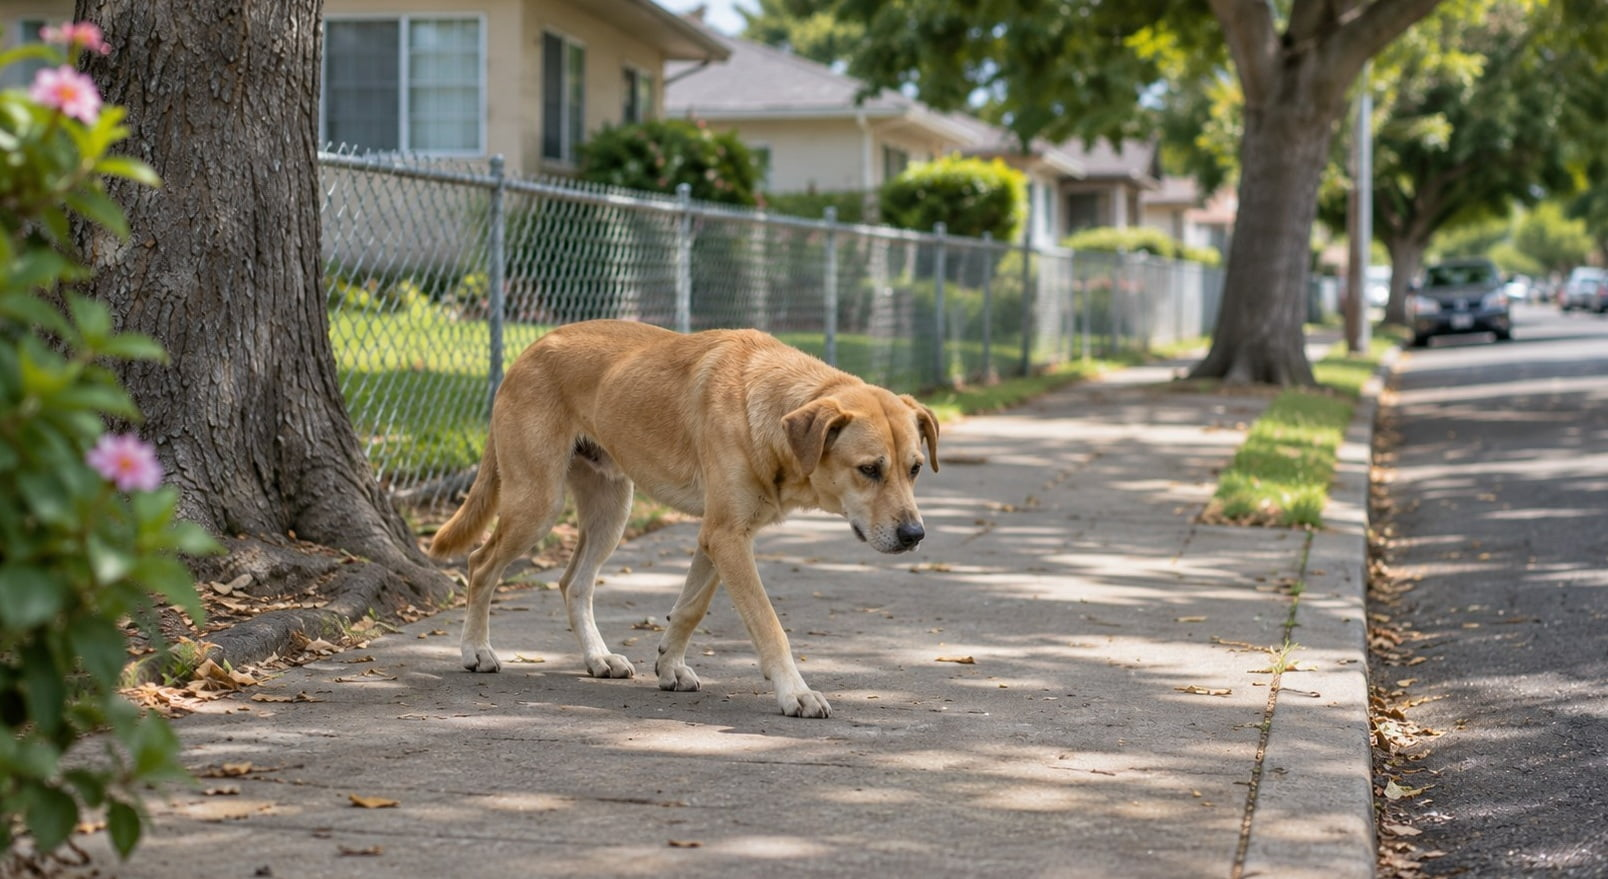
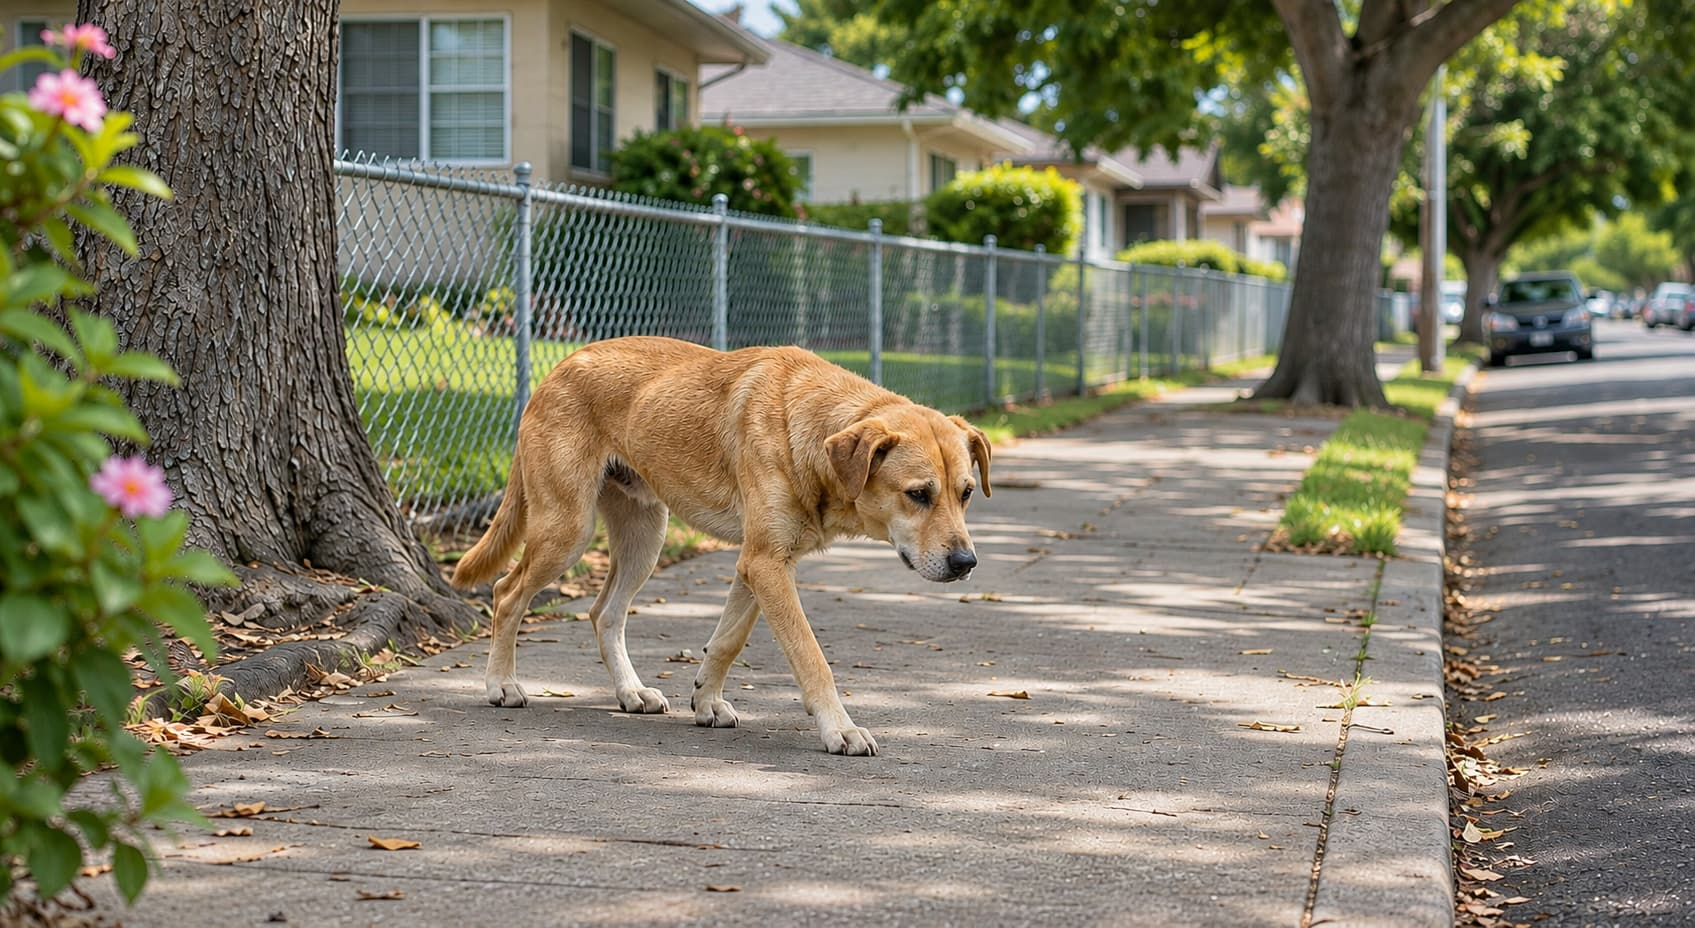
Improve saturation of images

diff --git a/public/preview/care-site/site.js b/public/preview/care-site/site.js
@@ -377,7 +377,8 @@ function render({reuseExisting=false}={}){
   const grouped=mainNavigation+aboutNavigation;
   const mobileNavigation=grouped+`<div class="care-nav-group"><div class="care-group-label">More work</div><nav class="care-rail-nav" aria-label="More work">${[['improvements','Improvements','improvements'],['events','Events','events']].map(navLink).join('')}</nav></div>`;
   const identity=`<span class="gap-identity-mark" style="background:${esc(gap?.fields?.identity_color||'#0789e8')}"></span><span>${esc(current==='/about'?'ABOUT CROSSOVER':gap?.title||'Crossover Stockton')}</span>`;
-  const shell=`<div class="care-shell"><aside class="care-rail"><a class="care-brand" href="${href('overview')}"><img src="/images/logo_light.webp" alt=""><span>CROSSOVER<br>STOCKTON</span></a><div class="care-rail-groups">${grouped}</div></aside><div class="care-site"><header class="care-top"><a class="care-mobile-brand" href="${href('overview')}"><img src="/images/logo_dark.webp" alt=""><span>CROSSOVER<br>STOCKTON</span></a><a class="gap-identity desktop-identity" href="${href('overview')}">${identity}</a><div class="care-top-actions"><div class="home-search"><button class="home-search-toggle" type="button" aria-label="Search the site" aria-expanded="false" aria-controls="home-search-panel"><svg viewBox="0 0 24 24" aria-hidden="true"><circle cx="10.8" cy="10.8" r="6.8"/><path d="m16 16 5 5"/></svg></button><div class="home-search-panel" id="home-search-panel" hidden><label for="home-search-input">Search Crossover Stockton</label><input id="home-search-input" type="search" placeholder="Search sections and records"><div class="home-search-results"></div></div></div><a class="desktop-about" href="${href('about')}" ${activeState('about')}>${icon('about')}<span>About</span></a><button class="menu-toggle" type="button" aria-label="Open menu" aria-expanded="false" aria-controls="mobile-menu">${icon('menu')}</button></div></header><div class="mobile-menu" id="mobile-menu">${mobileNavigation}</div><main class="main" id="content" tabindex="-1"><div class="content"><div class="gap-identity mobile-identity">${identity}</div>${inner}</div></main><footer class="footer"><div class="footer-inner"><div class="footer-copy"><span>&copy; ${new Date().getFullYear()} Crossover Stockton</span><span>See clearly. Act locally.</span></div><nav class="footer-links" aria-label="Footer"><a href="${href('about')}">About</a><a href="${href('sources')}">Sources</a></nav></div></footer></div></div>`;
+  const identityHref=current==='/about'?href('about'):href('overview');
+  const shell=`<div class="care-shell"><aside class="care-rail"><a class="care-brand" href="${href('overview')}"><img src="/images/logo_light.webp" alt=""><span>CROSSOVER<br>STOCKTON</span></a><div class="care-rail-groups">${grouped}</div></aside><div class="care-site"><header class="care-top"><a class="care-mobile-brand" href="${href('overview')}"><img src="/images/logo_dark.webp" alt=""><span>CROSSOVER<br>STOCKTON</span></a><a class="gap-identity desktop-identity" href="${identityHref}">${identity}</a><div class="care-top-actions"><div class="home-search"><button class="home-search-toggle" type="button" aria-label="Search the site" aria-expanded="false" aria-controls="home-search-panel"><svg viewBox="0 0 24 24" aria-hidden="true"><circle cx="10.8" cy="10.8" r="6.8"/><path d="m16 16 5 5"/></svg></button><div class="home-search-panel" id="home-search-panel" hidden><label for="home-search-input">Search Crossover Stockton</label><input id="home-search-input" type="search" placeholder="Search sections and records"><div class="home-search-results"></div></div></div><a class="desktop-about" href="${href('about')}" ${activeState('about')}>${icon('about')}<span>About</span></a><button class="menu-toggle" type="button" aria-label="Open menu" aria-expanded="false" aria-controls="mobile-menu">${icon('menu')}</button></div></header><div class="mobile-menu" id="mobile-menu">${mobileNavigation}</div><main class="main" id="content" tabindex="-1"><div class="content"><div class="gap-identity mobile-identity">${identity}</div>${inner}</div></main><footer class="footer"><div class="footer-inner"><div class="footer-copy"><span>&copy; ${new Date().getFullYear()} Crossover Stockton</span><span>See clearly. Act locally.</span></div><nav class="footer-links" aria-label="Footer"><a href="${href('about')}">About</a><a href="${href('sources')}">Sources</a></nav></div></footer></div></div>`;
   document.getElementById('app').innerHTML=shell.replace('/images/logo_light.webp','/images/logo_dark.webp');
   syncListenButtons();
   document.title=current==='/about'?`About Crossover · Crossover Stockton${isPreview?' — new site preview':''}`:`${({ '/overview':'Overview','/our-work':'Our work','/whats-next':"What's next",'/questions':'Questions' })[current]|| (current.startsWith('/record/')?'Record':menu.find(item=>'/'+item.page===current)?.label||'Crossover')} · Street dogs and access to care · Crossover Stockton${isPreview?' — new site preview':''}`;

diff --git a/index.html b/index.html
@@ -6,9 +6,9 @@
   <meta name="theme-color" content="#0d1c2b">
   <title>Overview · Street dogs and access to care · Crossover Stockton</title>
   <link rel="stylesheet" href="/fonts/ibm-plex.css">
-  <link rel="stylesheet" href="/site.css?v=00089c790e98">
-  <link rel="stylesheet" href="/care-site.css?v=00089c790e98">
-  <script src="/site.js?v=00089c790e98" defer></script>
+  <link rel="stylesheet" href="/site.css?v=36e58677d226">
+  <link rel="stylesheet" href="/care-site.css?v=36e58677d226">
+  <script src="/site.js?v=36e58677d226" defer></script>
 <meta name="description" content="Dogs are being abandoned and found roaming Stockton&#39;s streets. Some are lost pets, some have been dumped, and others live with people experiencing homelessness."><link rel="canonical" href="https://crossoverstockton.org/"></head>
 <body>
   <a class="skip-link" href="#content">Skip to content</a>
